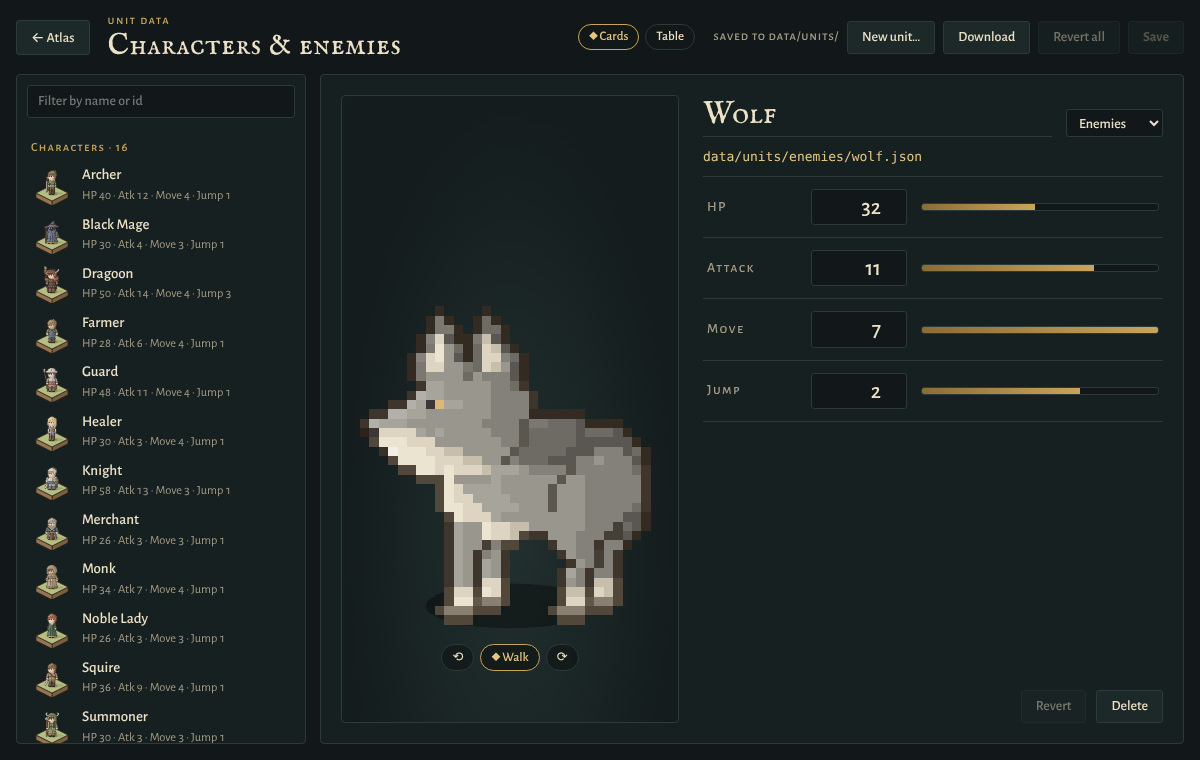
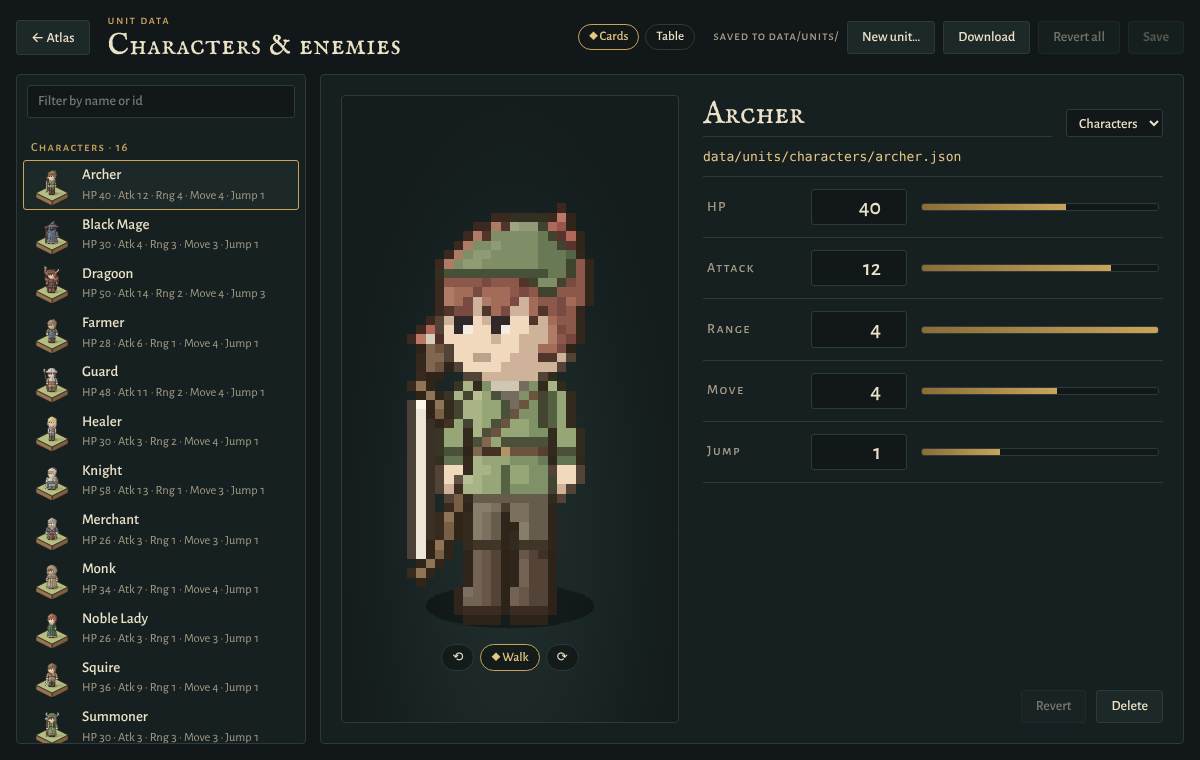
Unit data: add attack range
Claude-Session: https://claude.ai/code/session_015PvqJpEqEmM6sBoz5SncCe

diff --git a/src/data/units.js b/src/data/units.js
@@ -1,10 +1,10 @@
 /* ================= unit data: what a character or enemy can do =================
    The roster (characters/) says how everyone looks; this says how they play: how much damage they take and deal,
-   how far they move and how high they jump. Each unit is one JSON file under data/units/,
+   how many tiles away they can strike, how far they move and how high they jump. Each unit is one JSON file under data/units/,
    in characters/ or enemies/, named by its id, which is the id of the sprite it plays as:
 
      data/units/enemies/goblin.json
-     { "id": "goblin", "name": "Goblin", "stats": { "hp": 22, "attack": 7 }, "movement": { "move": 5, "jump": 2 } }
+     { "id": "goblin", "name": "Goblin", "stats": { "hp": 22, "attack": 7, "range": 1 }, "movement": { "move": 5, "jump": 2 } }
 
    Pure (no DOM, no Vite), so Node tools, tests and the browser share it. In the browser data/unit-files.js loads
    the files into the registry below; on the dev server the unit data page (units.html) writes them back through
@@ -16,7 +16,8 @@ const GROUP_LABEL = { characters: 'Characters', enemies: 'Enemies' };
 const FIELDS = {
   stats: [
     ['hp', 'HP', 1, 999, 30],
-    ['attack', 'Attack', 0, 99, 8]],
+    ['attack', 'Attack', 0, 99, 8],
+    ['range', 'Range', 1, 8, 1]],
   movement: [
     ['move', 'Move', 1, 12, 5],
     ['jump', 'Jump', 0, 6, 1]] };

diff --git a/src/units/main.js b/src/units/main.js
@@ -74,7 +74,7 @@ function renderList() {
       const b = document.createElement('button'); b.className = 'ub-row'; b.dataset.id = id; b.setAttribute('aria-current', String(id === V.sel));
       const t = thumb(id); if (t) { t.className = 'ub-thumb'; b.append(t); } else { const s = document.createElement('span'); s.className = 'ub-thumb ub-nosprite'; s.textContent = '?'; b.append(s); }
       const d = e.draft, info = document.createElement('span'); info.className = 'ub-row-text';
-      info.innerHTML = `<b>${esc(nameOf(e))}${isDirty(e) ? '<i class="ub-dot" title="unsaved changes"></i>' : ''}</b><span>HP ${d.stats.hp} · Atk ${d.stats.attack} · Move ${d.movement.move} · Jump ${d.movement.jump}</span>`;
+      info.innerHTML = `<b>${esc(nameOf(e))}${isDirty(e) ? '<i class="ub-dot" title="unsaved changes"></i>' : ''}</b><span>HP ${d.stats.hp} · Atk ${d.stats.attack} · Rng ${d.stats.range} · Move ${d.movement.move} · Jump ${d.movement.jump}</span>`;
       b.append(info); b.addEventListener('click', () => { V.sel = id; renderAll(); if (V.view === 'table') setView('cards'); });
       box.append(b);
     }

diff --git a/src/data/units.test.js b/src/data/units.test.js
@@ -32,7 +32,7 @@ test('the unit files are valid and in canonical form', () => {
 test('a unit is clamped and filled out, and its faults are named', () => {
   const u = normalizeUnit({ id: 'Imp', level: 400, stats: { hp: -3, attack: 7.6, mp: 9 }, movement: { jump: 9 }, extra: 1 });
   assert.equal(u.id, 'imp'); assert.equal(u.name, 'Imp');
-  assert.equal(u.stats.hp, 1); assert.equal(u.stats.attack, 8); assert.deepEqual(Object.keys(u.stats), ['hp', 'attack']);
+  assert.equal(u.stats.hp, 1); assert.equal(u.stats.attack, 8); assert.deepEqual(Object.keys(u.stats), ['hp', 'attack', 'range']); assert.equal(u.stats.range, 1);
   assert.equal(u.movement.jump, 6); assert.equal(u.movement.move, DEFAULT_UNIT.movement.move);
   assert.equal(u.level, undefined); assert.equal(u.extra, undefined);
   assert.deepEqual(validateUnit({ id: 'imp', stats: { hp: 30 } }), []);

diff --git a/src/tactical/view.js b/src/tactical/view.js
@@ -156,7 +156,7 @@ function panels() {
     fg.clearRect(0, 0, f.width, f.height); fg.imageSmoothingEnabled = false; if (s) fg.drawImage(portrait(s), 0, 0, f.width, f.height);
     $('tcUnitName').textContent = s ? s.name : c.sprite;
     const u = unitFor(c.sprite), st = u.stats, mv = u.movement;
-    $('tcUnitInfo').textContent = `HP ${st.hp} · Attack ${st.attack}`;
+    $('tcUnitInfo').textContent = `HP ${st.hp} · Attack ${st.attack} · Range ${st.range}`;
     $('tcUnitMove').textContent = `Move ${mv.move} · Jump ${mv.jump}${TC.sel === k ? ' · ready' : ''}`;
   }
   $('tcHint').textContent = TC.walk ? 'On the move…' : TC.sel >= 0 ? 'Pick a blue tile to move there · Esc to cancel' : (M.chars || []).length ? 'Click a unit or press Tab to pick one' : 'No one stands on this map: place characters in the editor first';

diff --git a/README.md b/README.md
@@ -124,16 +124,16 @@ data/units/
   enemies/     bandit.json  goblin.json  orc.json  skeleton.json  slime.json  wolf.json
 ```
 
-A file is named by the unit's id, which is the id of the sprite it plays as, and holds its name, HP, Attack,
-movement (Move: tiles a turn; Jump: height levels a step can climb or drop). `src/data/units.js`
+A file is named by the unit's id, which is the id of the sprite it plays as, and holds its name, HP, Attack, Range
+(how many tiles away it can strike), movement (Move: tiles a turn; Jump: height levels a step can climb or drop). `src/data/units.js`
 defines the fields, their ranges and defaults, and normalizes and validates a unit; a sprite with no file, such
 as a custom character from the maker, plays with the defaults. The tactical view moves units by their Move and
-Jump and shows their HP and Attack; adding a field means adding a line to `FIELDS` there.
+Jump and shows their HP, Attack and Range; adding a field means adding a line to `FIELDS` there.
 
 **Unit data** in the atlas header opens `units.html`, an editor for these files:
 
 - **Cards:** the list of units down the side, filterable, and a card for the picked one: its sprite walking (turn
-  it with ⟲ ⟳), name and group, and HP, Attack, Move and Jump listed on the right, each with a bar against the strongest unit.
+  it with ⟲ ⟳), name and group, and HP, Attack, Range, Move and Jump listed on the right, each with a bar against the strongest unit.
   Changed values are outlined in brass.
 - **Table:** everyone in one sortable grid for balancing numbers side by side, every cell editable.
 - **Saving:** changes are drafts until **Save** (`Ctrl+S`), which on the dev server (`npm run dev`) writes the
@@ -349,7 +349,7 @@ src/
                       automation API (api-spec, api, bridge)
 tools/                Vite plugin that relays HTTP calls to the editor page and saves unit data (dev server only),
                       the character sheet writer and a minimal PNG and APNG encoder
-data/units/           One JSON file per character and enemy: HP, Attack, Move, Jump
+data/units/           One JSON file per character and enemy: HP, Attack, Range, Move, Jump
 mcp/                  MCP server, backend launcher and end-to-end test
   ui/                 Shared state, map drawing, view/pan/zoom, input, ledger panel, city view
 legacy/               The original single-file artifact, kept for reference
